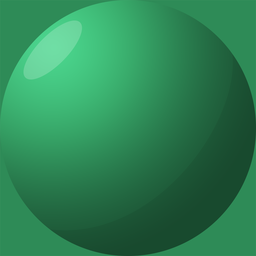
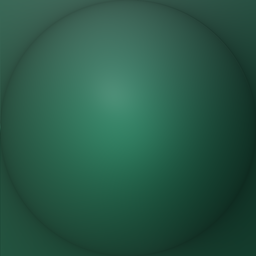
better grass color

diff --git a/src/Experience/sources.js b/src/Experience/sources.js
@@ -26,7 +26,7 @@ import tileHeight33 from '../img/tileHeightmaps/tl_33.jpg';
  */
 import glossMatcap from '../img/matcaps/gloss.png';
 import metalMatcap from '../img/matcaps/metal.png';
-import grassMatcap from '../img/matcaps/grass3.png';
+import grassMatcap from '../img/matcaps/grass.png';
 import sandMatcap from '../img/matcaps/sand.png';
 import waterMatcap from '../img/matcaps/water.png';
 
